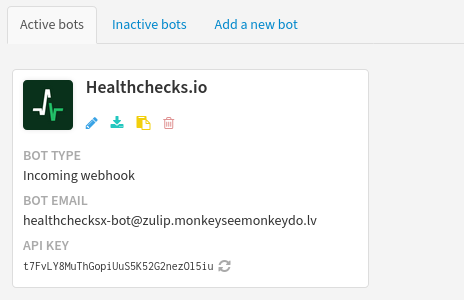
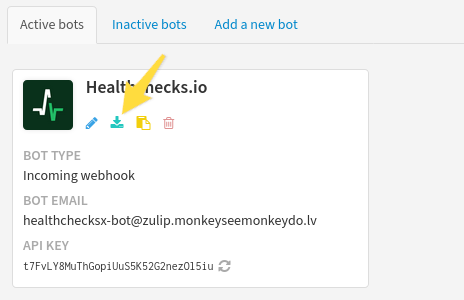
Change Zulip onboarding, ask for the zuliprc file
Fixes: #202

Changed region(s): [[0.2414, 0.18, 0.3621, 0.39]]

diff --git a/templates/integrations/add_zulip.html b/templates/integrations/add_zulip.html
@@ -67,7 +67,8 @@
         <div class="col-sm-6">
             <span class="step-no"></span>
             <p>
-                Copy the displayed bot's credentials into the form below.
+                Download the bot's <code>zuliprc</code> file by clicking on the
+                <strong>cyan download icon</strong>, and upload it in the form below.
                 Also specify the stream or the private user you want {{ site_name }}
                 to post notifications to.
             </p>
@@ -87,44 +88,23 @@
 
     <form method="post" class="form-horizontal">
         {% csrf_token %}
+        <input type="hidden" name="api_key" id="zulip-api-key">
+        <input type="hidden" name="bot_email" id="zulip-bot-email">
+        <input type="hidden" name="site" id="zulip-site">
 
-        <div class="form-group {{ form.bot_email.css_classes }}">
-            <label for="bot-email" class="col-sm-2 control-label">Bot Email</label>
+        <div class="form-group">
+            <label for="zuliprc" class="col-sm-2 control-label">The zuliprc File</label>
             <div class="col-sm-4">
-                <input
-                    id="bot-email"
-                    type="text"
-                    class="form-control"
-                    name="bot_email"
-                    value="{{ form.bot_email.value|default:"" }}">
-
-                <div class="help-block">
-                {% if form.bot_email.errors %}
-                    {{ form.bot_email.errors|join:"" }}
-                {% else %}
-                    Example: healthchecks-bot@zulip.mycompany.com
+                <input id="zuliprc" type="file">
+                <div id="zuliprc-help" class="help-block">
+                {% if form.api_key.errors or form.bot_email.errors or form.site.errors %}
+                    Invalid file format.
                 {% endif %}
                 </div>
             </div>
         </div>
 
-        <div class="form-group {{ form.api_key.css_classes }}">
-            <label for="api-key" class="col-sm-2 control-label">API Key</label>
-            <div class="col-sm-4">
-                <input
-                    id="api-key"
-                    type="text"
-                    class="form-control"
-                    name="api_key"
-                    value="{{ form.api_key.value|default:"" }}">
 
-                {% if form.api_key.errors %}
-                <div class="help-block">
-                    {{ form.api_key.errors|join:"" }}
-                </div>
-                {% endif %}
-            </div>
-        </div>
 
         <div id="z-mtype-group" class="form-group {{ form.mtype.css_classes }}">
             <label class="col-sm-2 control-label">Post To</label>
@@ -178,7 +158,11 @@
 
         <div class="form-group">
             <div class="col-sm-offset-2 col-sm-10">
-                <button type="submit" class="btn btn-primary">Save Integration</button>
+                <button
+                    id="save-integration"
+                    type="submit"
+                    disabled
+                    class="btn btn-primary">Save Integration</button>
             </div>
         </div>
     </form>

diff --git a/static/js/add_zulip.js b/static/js/add_zulip.js
@@ -14,4 +14,25 @@ $(function() {
     // Update form labels when user clicks on radio buttons
     $('input[type=radio][name=mtype]').change(updateForm);
 
+    $("#zuliprc").change(function() {
+        this.files[0].text().then(function(contents) {
+            var keyMatch = contents.match(/key=(.*)/);
+            var emailMatch = contents.match(/email=(.*@.*)/);
+            var siteMatch = contents.match(/site=(.*)/);
+
+            if (!keyMatch || !emailMatch || !siteMatch) {
+                $("#zuliprc-help").text("Invalid file format.");
+                $("#save-integration").prop("disabled", true);
+                return
+            }
+
+            $("#zulip-api-key").val(keyMatch[1]);
+            $("#zulip-bot-email").val(emailMatch[1]);
+            $("#zulip-site").val(siteMatch[1]);
+            $("#zuliprc-help").text("");
+
+            $("#save-integration").prop("disabled", false);
+        });
+    })
+
 });

diff --git a/hc/front/tests/test_add_zulip.py b/hc/front/tests/test_add_zulip.py
@@ -2,6 +2,19 @@ from hc.api.models import Channel
 from hc.test import BaseTestCase
 
 
+def _get_payload(**kwargs):
+    payload = {
+        "bot_email": "foo@example.org",
+        "api_key": "fake-key",
+        "site": "https://example.org",
+        "mtype": "stream",
+        "to": "general",
+    }
+
+    payload.update(kwargs)
+    return payload
+
+
 class AddZulipTestCase(BaseTestCase):
     def setUp(self):
         super().setUp()
@@ -13,15 +26,8 @@ class AddZulipTestCase(BaseTestCase):
         self.assertContains(r, "open-source group chat app")
 
     def test_it_works(self):
-        form = {
-            "bot_email": "foo@example.org",
-            "api_key": "fake-key",
-            "mtype": "stream",
-            "to": "general",
-        }
-
         self.client.login(username="alice@example.org", password="password")
-        r = self.client.post(self.url, form)
+        r = self.client.post(self.url, _get_payload())
         self.assertRedirects(r, self.channels_url)
 
         c = Channel.objects.get()
@@ -32,51 +38,39 @@ class AddZulipTestCase(BaseTestCase):
         self.assertEqual(c.zulip_to, "general")
 
     def test_it_rejects_bad_email(self):
-        form = {
-            "bot_email": "not@an@email",
-            "api_key": "fake-key",
-            "mtype": "stream",
-            "to": "general",
-        }
-
+        payload = _get_payload(bot_email="not@an@email")
         self.client.login(username="alice@example.org", password="password")
-        r = self.client.post(self.url, form)
-        self.assertContains(r, "Enter a valid email address.")
+        r = self.client.post(self.url, payload)
+        self.assertContains(r, "Invalid file format.")
 
     def test_it_rejects_missing_api_key(self):
-        form = {
-            "bot_email": "foo@example.org",
-            "api_key": "",
-            "mtype": "stream",
-            "to": "general",
-        }
-
+        payload = _get_payload(api_key="")
         self.client.login(username="alice@example.org", password="password")
-        r = self.client.post(self.url, form)
-        self.assertContains(r, "This field is required.")
+        r = self.client.post(self.url, payload)
+        self.assertContains(r, "Invalid file format.")
+
+    def test_it_rejects_missing_site(self):
+        payload = _get_payload(site="")
+        self.client.login(username="alice@example.org", password="password")
+        r = self.client.post(self.url, payload)
+        self.assertContains(r, "Invalid file format.")
+
+    def test_it_rejects_malformed_site(self):
+        payload = _get_payload(site="not-an-url")
+        self.client.login(username="alice@example.org", password="password")
+        r = self.client.post(self.url, payload)
+        self.assertContains(r, "Invalid file format.")
 
     def test_it_rejects_bad_mtype(self):
-        form = {
-            "bot_email": "foo@example.org",
-            "api_key": "fake-key",
-            "mtype": "this-should-not-work",
-            "to": "general",
-        }
-
+        payload = _get_payload(mtype="this-should-not-work")
         self.client.login(username="alice@example.org", password="password")
-        r = self.client.post(self.url, form)
+        r = self.client.post(self.url, payload)
         self.assertEqual(r.status_code, 200)
 
     def test_it_rejects_missing_stream_name(self):
-        form = {
-            "bot_email": "foo@example.org",
-            "api_key": "fake-key",
-            "mtype": "stream",
-            "to": "",
-        }
-
+        payload = _get_payload(to="")
         self.client.login(username="alice@example.org", password="password")
-        r = self.client.post(self.url, form)
+        r = self.client.post(self.url, payload)
         self.assertContains(r, "This field is required.")
 
     def test_it_requires_rw_access(self):

diff --git a/hc/api/tests/test_notify_zulip.py b/hc/api/tests/test_notify_zulip.py
@@ -1,0 +1,86 @@
+# coding: utf-8
+
+from datetime import timedelta as td
+import json
+from unittest.mock import patch
+
+from django.utils.timezone import now
+from hc.api.models import Channel, Check, Notification
+from hc.test import BaseTestCase
+
+
+class NotifyTestCase(BaseTestCase):
+    def _setup_data(self, kind, value, status="down", email_verified=True):
+        self.check = Check(project=self.project)
+        self.check.status = status
+        self.check.last_ping = now() - td(minutes=61)
+        self.check.save()
+
+        self.channel = Channel(project=self.project)
+        self.channel.kind = kind
+        self.channel.value = value
+        self.channel.email_verified = email_verified
+        self.channel.save()
+        self.channel.checks.add(self.check)
+
+    @patch("hc.api.transports.requests.request")
+    def test_zulip(self, mock_post):
+        definition = {
+            "bot_email": "bot@example.org",
+            "api_key": "fake-key",
+            "mtype": "stream",
+            "to": "general",
+        }
+        self._setup_data("zulip", json.dumps(definition))
+        mock_post.return_value.status_code = 200
+
+        self.channel.notify(self.check)
+        assert Notification.objects.count() == 1
+
+        args, kwargs = mock_post.call_args
+
+        method, url = args
+        self.assertEqual(url, "https://example.org/api/v1/messages")
+
+        payload = kwargs["data"]
+        self.assertIn("DOWN", payload["topic"])
+
+    @patch("hc.api.transports.requests.request")
+    def test_zulip_returns_error(self, mock_post):
+        definition = {
+            "bot_email": "bot@example.org",
+            "api_key": "fake-key",
+            "mtype": "stream",
+            "to": "general",
+        }
+        self._setup_data("zulip", json.dumps(definition))
+        mock_post.return_value.status_code = 403
+        mock_post.return_value.json.return_value = {"msg": "Nice try"}
+
+        self.channel.notify(self.check)
+
+        n = Notification.objects.first()
+        self.assertEqual(n.error, 'Received status code 403 with a message: "Nice try"')
+
+    @patch("hc.api.transports.requests.request")
+    def test_zulip_uses_site_parameter(self, mock_post):
+        definition = {
+            "bot_email": "bot@example.org",
+            "site": "https://custom.example.org",
+            "api_key": "fake-key",
+            "mtype": "stream",
+            "to": "general",
+        }
+        self._setup_data("zulip", json.dumps(definition))
+        mock_post.return_value.status_code = 200
+
+        self.channel.notify(self.check)
+        assert Notification.objects.count() == 1
+
+        args, kwargs = mock_post.call_args
+
+        method, url = args
+        self.assertEqual(url, "https://custom.example.org/api/v1/messages")
+
+        payload = kwargs["data"]
+        self.assertIn("DOWN", payload["topic"])

diff --git a/hc/api/tests/test_notify.py b/hc/api/tests/test_notify.py
@@ -783,38 +783,3 @@ class NotifyTestCase(BaseTestCase):
 
         n = Notification.objects.get()
         self.assertEqual(n.error, "Shell commands are not enabled")
-
-    @patch("hc.api.transports.requests.request")
-    def test_zulip(self, mock_post):
-        definition = {
-            "bot_email": "bot@example.org",
-            "api_key": "fake-key",
-            "mtype": "stream",
-            "to": "general",
-        }
-        self._setup_data("zulip", json.dumps(definition))
-        mock_post.return_value.status_code = 200
-
-        self.channel.notify(self.check)
-        assert Notification.objects.count() == 1
-
-        args, kwargs = mock_post.call_args
-        payload = kwargs["data"]
-        self.assertIn("DOWN", payload["topic"])
-
-    @patch("hc.api.transports.requests.request")
-    def test_zulip_returns_error(self, mock_post):
-        definition = {
-            "bot_email": "bot@example.org",
-            "api_key": "fake-key",
-            "mtype": "stream",
-            "to": "general",
-        }
-        self._setup_data("zulip", json.dumps(definition))
-        mock_post.return_value.status_code = 403
-        mock_post.return_value.json.return_value = {"msg": "Nice try"}
-
-        self.channel.notify(self.check)
-
-        n = Notification.objects.first()
-        self.assertEqual(n.error, 'Received status code 403 with a message: "Nice try"')

diff --git a/hc/api/models.py b/hc/api/models.py
@@ -755,6 +755,18 @@ class Channel(models.Model):
         return doc["bot_email"]
 
     @property
+    def zulip_site(self):
+        assert self.kind == "zulip"
+        doc = json.loads(self.value)
+        if "site" in doc:
+            return doc["site"]
+
+        # Fallback if we don't have the site value:
+        # derive it from bot's email
+        _, domain = doc["bot_email"].split("@")
+        return "https://" + domain
+
+    @property
     def zulip_api_key(self):
         assert self.kind == "zulip"
         doc = json.loads(self.value)

diff --git a/hc/api/transports.py b/hc/api/transports.py
@@ -629,8 +629,7 @@ class Zulip(HttpTransport):
             pass
 
     def notify(self, check):
-        _, domain = self.channel.zulip_bot_email.split("@")
-        url = "https://%s/api/v1/messages" % domain
+        url = self.channel.zulip_site + "/api/v1/messages"
         auth = (self.channel.zulip_bot_email, self.channel.zulip_api_key)
         data = {
             "type": self.channel.zulip_type,

diff --git a/hc/front/forms.py b/hc/front/forms.py
@@ -274,6 +274,7 @@ class AddZulipForm(forms.Form):
     error_css_class = "has-error"
     bot_email = forms.EmailField(max_length=100)
     api_key = forms.CharField(max_length=50)
+    site = forms.URLField(max_length=100, validators=[WebhookValidator()])
     mtype = forms.ChoiceField(choices=ZULIP_TARGETS)
     to = forms.CharField(max_length=100)
 

diff --git a/CHANGELOG.md b/CHANGELOG.md
@@ -9,6 +9,7 @@ All notable changes to this project will be documented in this file.
 - Update the email notification template to include more check and last ping details
 - Improve the crontab snippet in the "Check Details" page (#465)
 - Add Signal integration (#428)
+- Change Zulip onboarding, ask for the zuliprc file (#202)
 
 ## Bug Fixes
 - Fix unwanted HTML escaping in SMS and WhatsApp notifications
